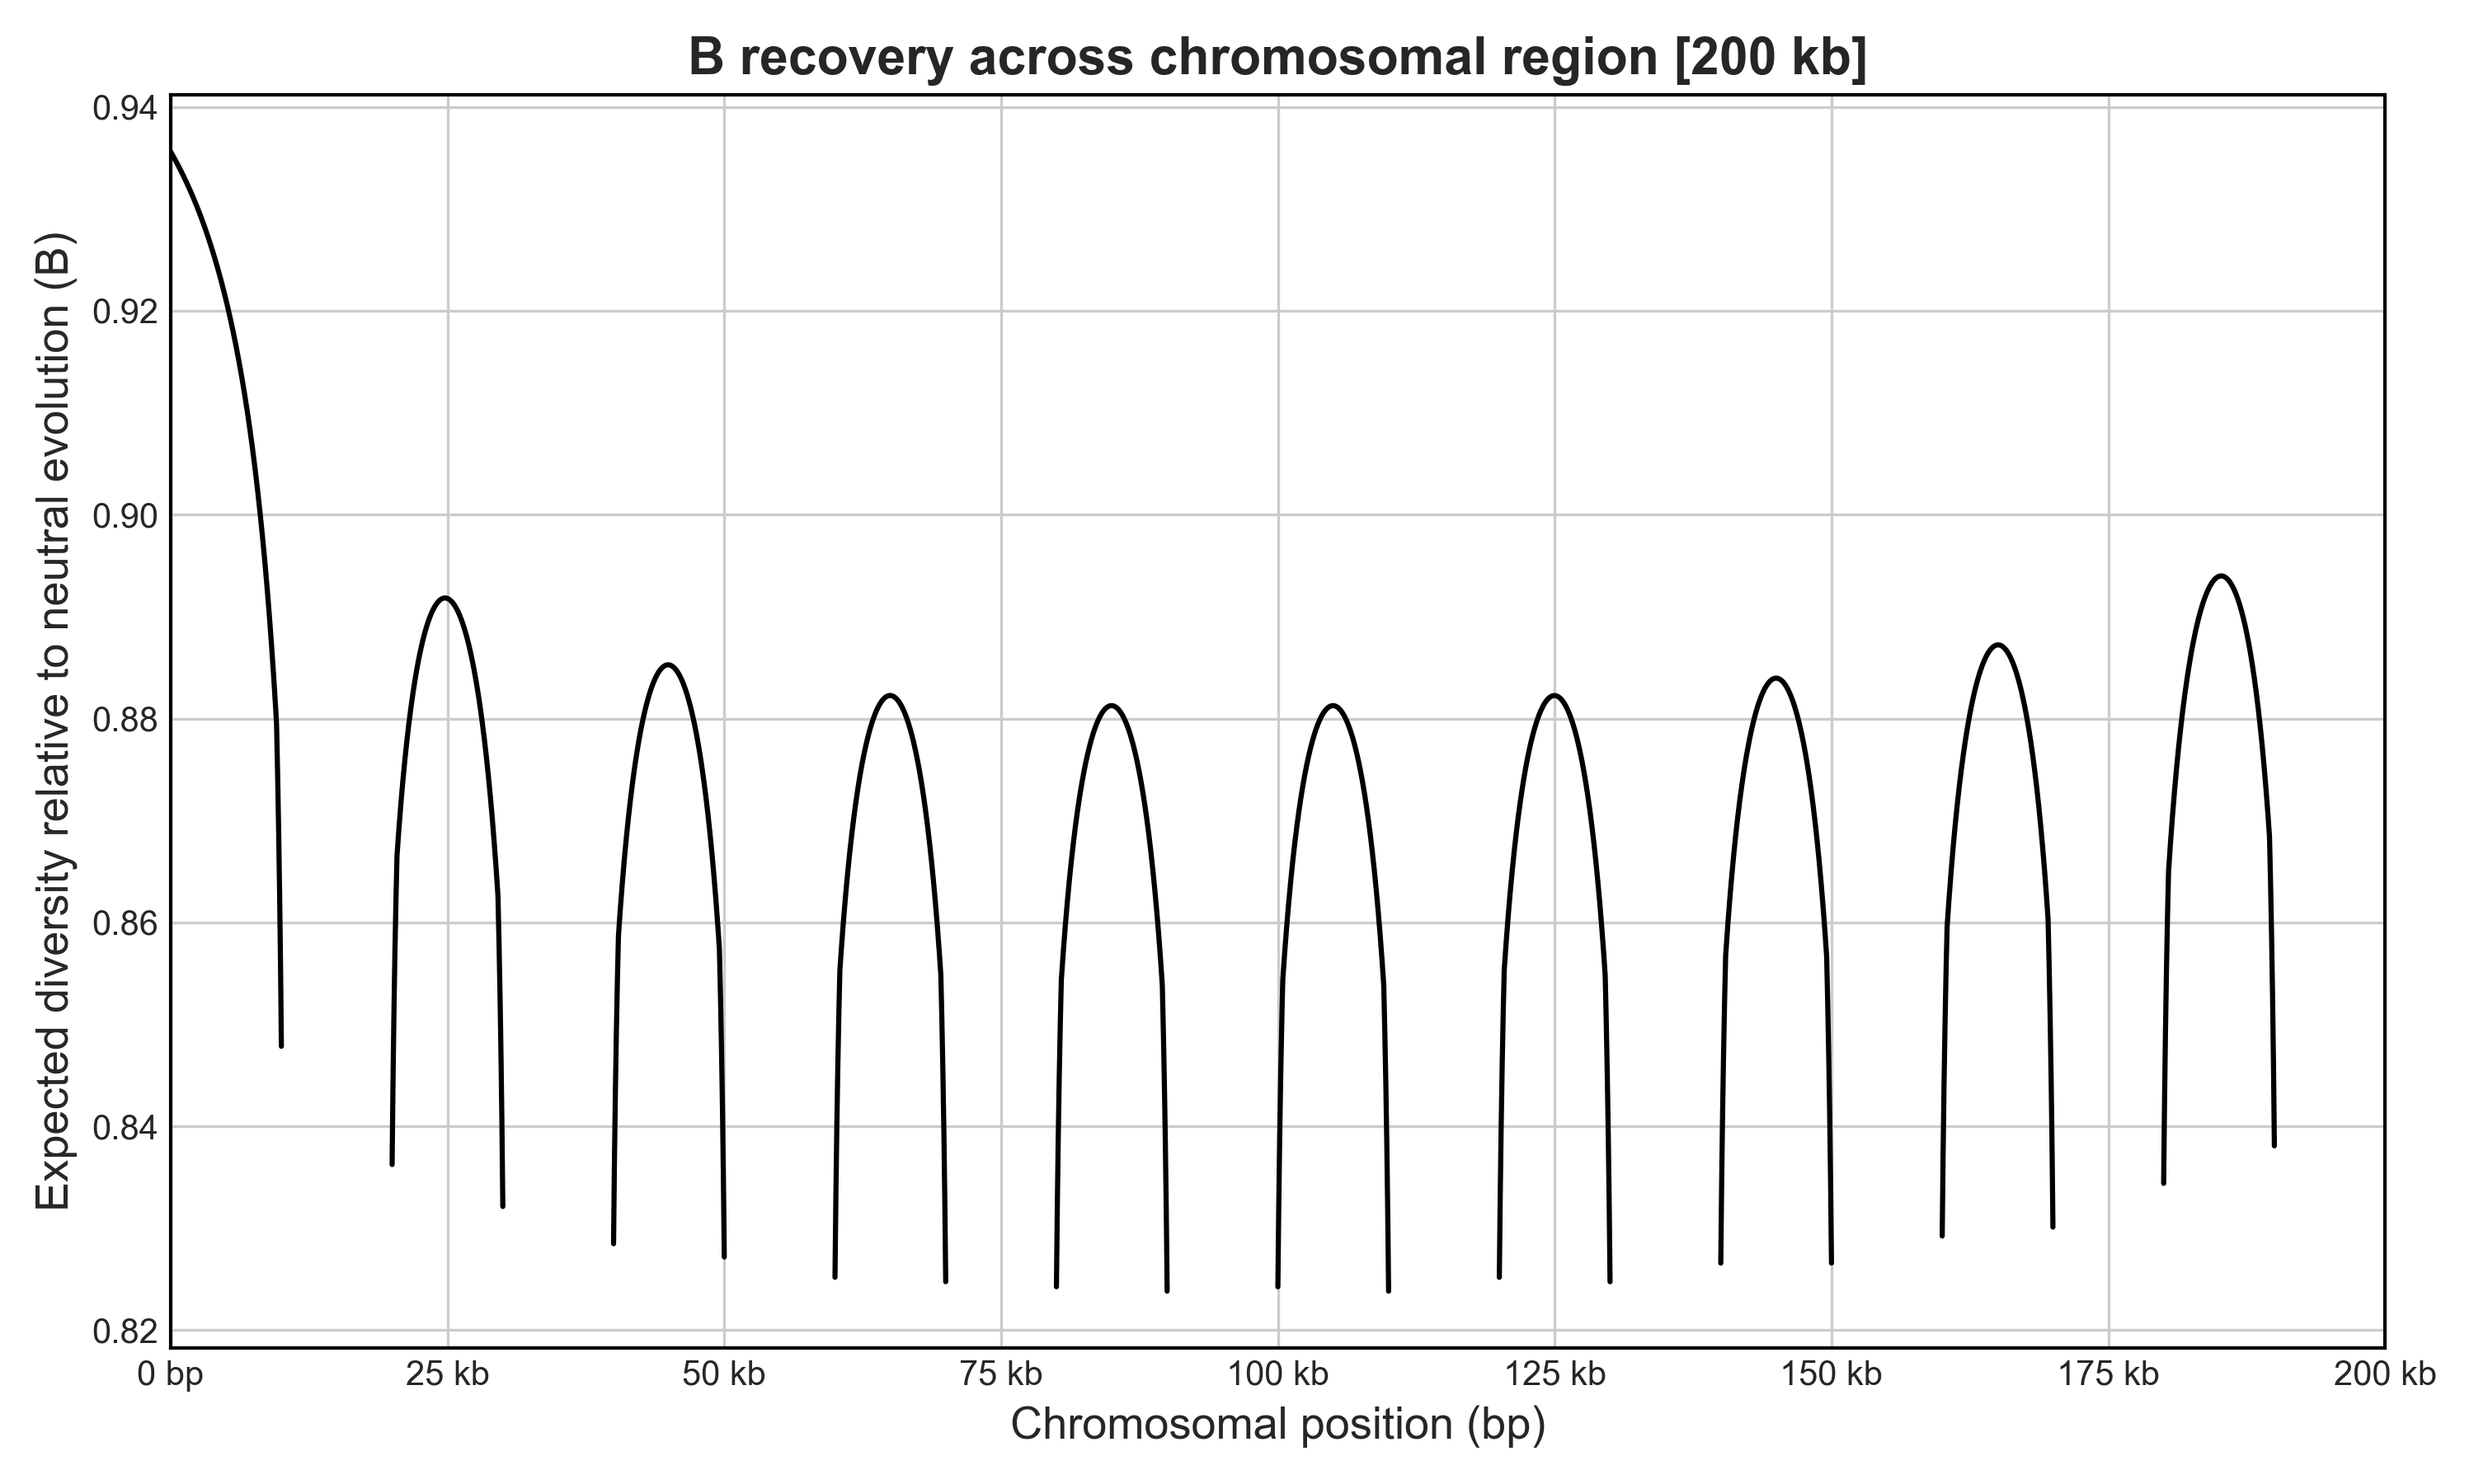
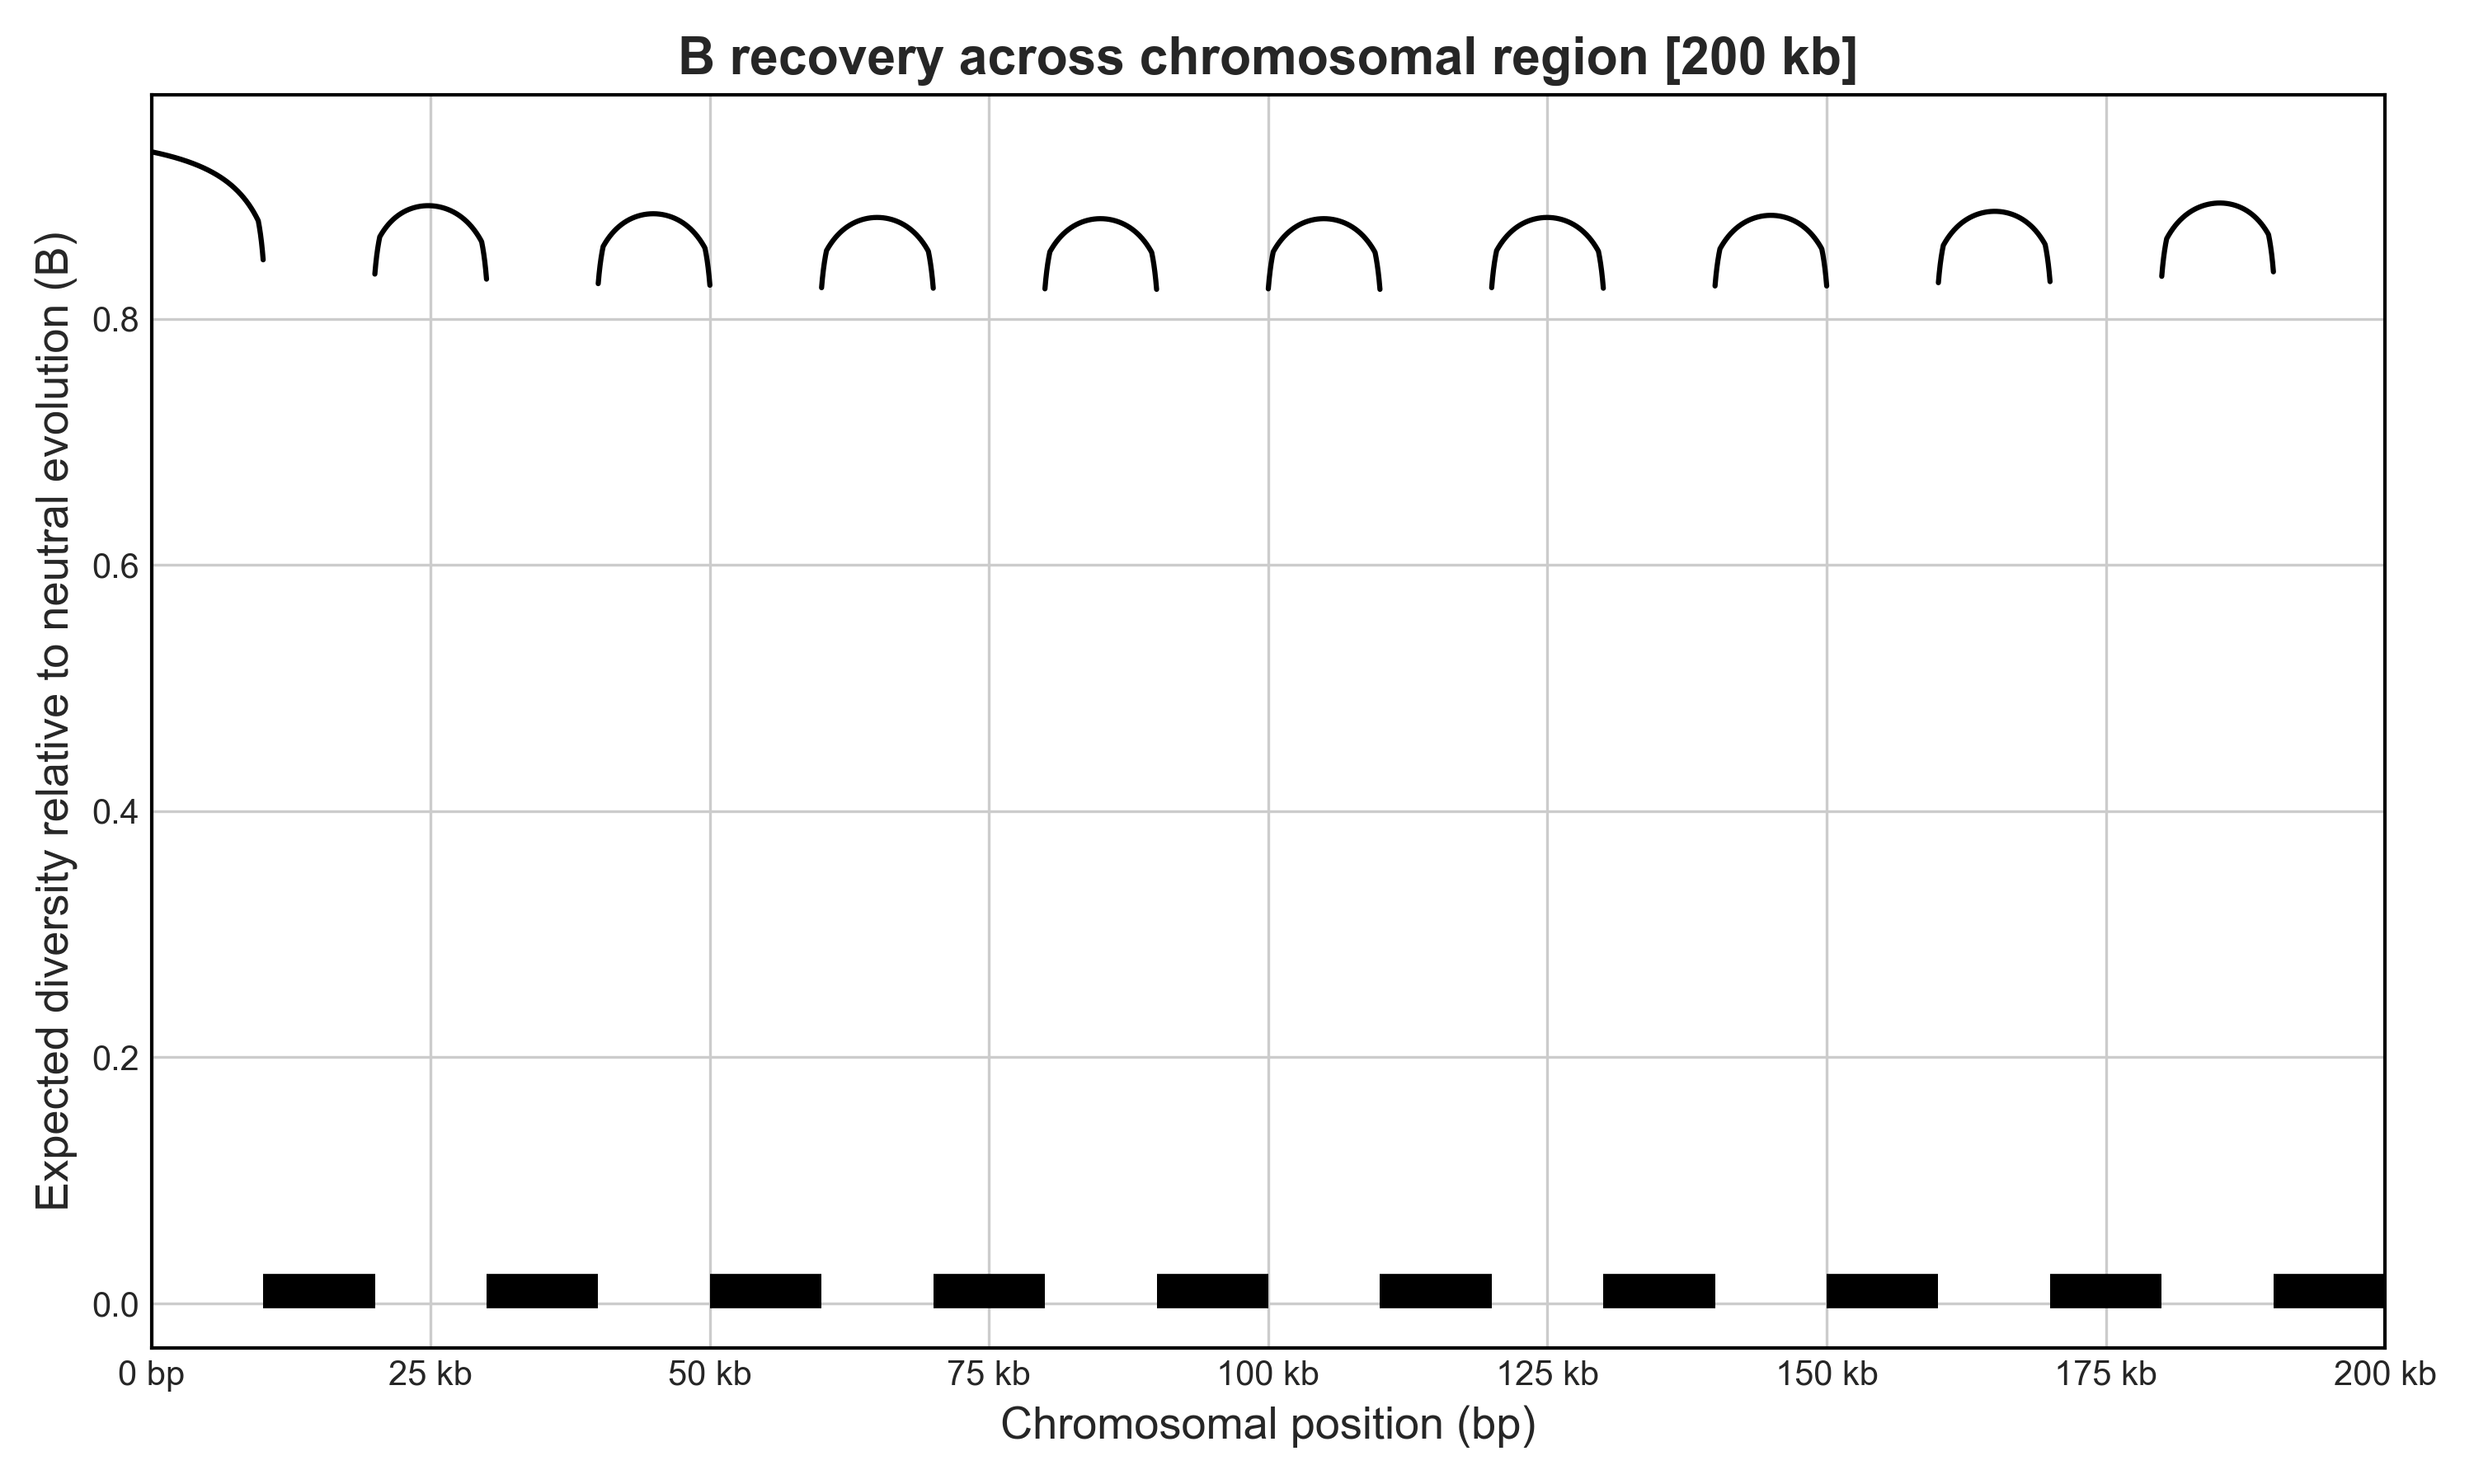
Add horizontal blocks to plotBasic

diff --git a/Bvalcalc.py b/Bvalcalc.py
@@ -20,9 +20,9 @@ def main():
 
     if known_args.genome: # Run genome Bcalc
         args = parseGenomeArgs(remaining_args)
-        output_data = genomeBcalc(args)
+        output_data, block_ranges = genomeBcalc(args)
         if getattr(args, 'plot_output', True):
-            plotBasic(b_values_input=output_data, caller="genome", output_path=args.plot_output, silent=args.silent)
+            plotBasic(b_values_input=output_data, caller="genome", output_path=args.plot_output, silent=args.silent, genes=block_ranges)
     elif known_args.region: # Run region Bcalc
         args = parseRegionArgs(remaining_args)
         output_data = regionBcalc(args) # Capture the output from regionBcalc

diff --git a/helperScripts/plotBasic.py b/helperScripts/plotBasic.py
@@ -43,7 +43,12 @@ def plotBasic(b_values_input, caller, output_path, silent, genes = None):
         ax.set_title('B recovery from single element', fontsize=15, fontweight='bold')
 
     ax.tick_params(axis='both', which='major', labelsize=10)
-    
+
+        # If gene annotations are provided, add them as horizontal bars
+    if genes is not None and len(genes) > 0:
+        for start, end in genes:
+            ax.hlines(y=0.01, xmin=start, xmax=end, colors='black', linewidth=10)
+
     # Format the x-axis ticks:
     ax.xaxis.set_major_formatter(
         ticker.FuncFormatter(

diff --git a/helperScripts/genomeBcalc.py b/helperScripts/genomeBcalc.py
@@ -68,5 +68,5 @@ def genomeBcalc(args):
         b_values = get_Bcur(b_values)
         if not silent: print("Demographic change applied to B-calculation")
     output_data = np.column_stack((positions, b_values))
-
-    return output_data
+    block_ranges = np.column_stack((blockstart, blockend))
+    return output_data, block_ranges
